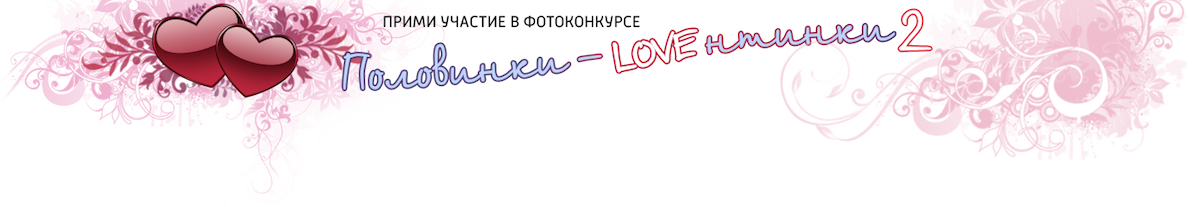
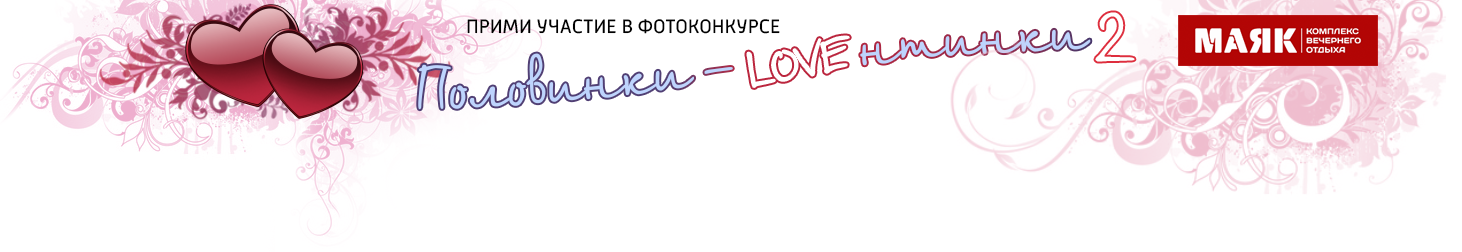
замена шапки брендирования; новый партнер

diff --git a/app/assets/stylesheets/public/_contest.sass b/app/assets/stylesheets/public/_contest.sass
@@ -897,18 +897,23 @@
 
   div.links
     width: 1200px
-    height: 102px
+    height: 124px
     margin: 0 auto
     position: relative
 
-    .one
+    .one, .two
       position: absolute
       text-indent: -9999px
 
     .one
       width: 831px
-      height: 129px
+      height: 124px
       left: 0px
+
+    .two
+      width: 369px
+      height: 124px
+      right: 0
 
   .february_content_wrapper
     width: 1250px

diff --git a/app/assets/stylesheets/public/contests/_february_14_contest.sass b/app/assets/stylesheets/public/contests/_february_14_contest.sass
@@ -115,6 +115,11 @@
           height: 70px
           width: 103px
 
+        .partner_sushi
+          background: image_url('public/february_contest/sushi.png') no-repeat center center
+          height: 70px
+          width: 84px
+
       .marked
         background-color: #ffe5f1
         padding: 10px
